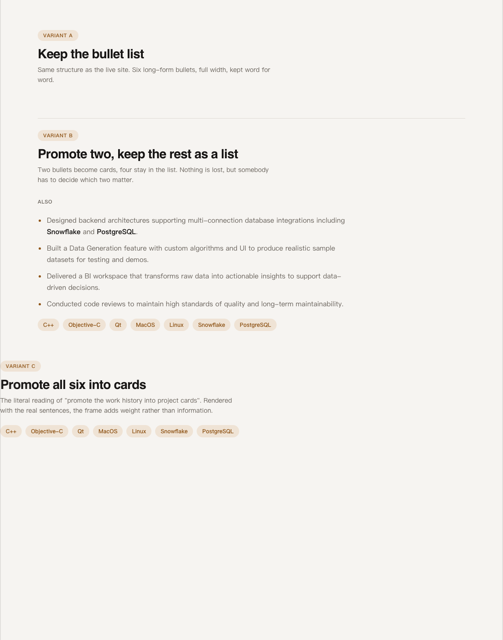
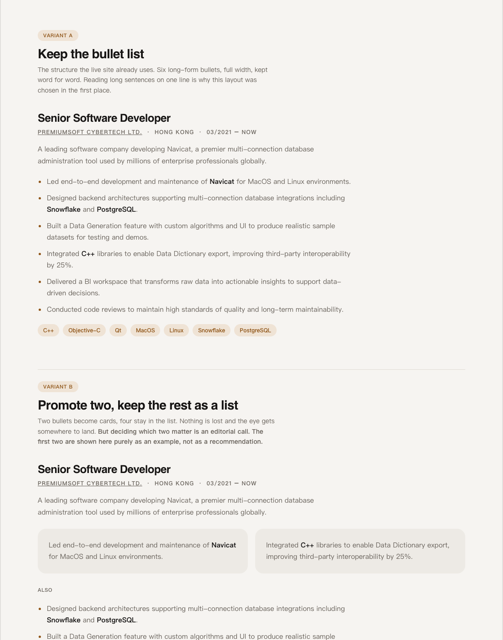
[Process] rebuild the published variants page without breaking its layout
The copy published at /process/experience-variants.html was translated with a
regular expression that matched greedily and swallowed the closing tags of the
demo blocks along with the Chinese headings. Variant A lost its content
entirely, and Variant C fell outside the page wrapper.

Rebuilt by replacing the text nodes one at a time and touching no structure.
Verified in the browser: three demo blocks, eight cards, no CJK characters
left. The thumbnail is regenerated from the corrected page.

diff --git a/public/process/experience-variants.html b/public/process/experience-variants.html
@@ -7,7 +7,7 @@
 <style>
   * { margin: 0; padding: 0; box-sizing: border-box; }
 
-  
+  /* */
   :root {
     --bg: #f6f4f1; --surface: #edeae5; --surface-raised: #faf9f7;
     --ink: #171514; --muted: #6a645d; --line: #e0dcd5;
@@ -26,7 +26,7 @@
 
   .wrap { max-width: 1000px; margin: 0 auto; padding: 0 32px; }
 
-  
+  /* */
   .variant-head { border-top: 1px solid var(--line); margin-top: 72px; padding-top: 24px; }
   .variant-head:first-of-type { margin-top: 40px; border-top: 0; }
   .variant-tag {
@@ -38,7 +38,7 @@
   .variant-note { font-size: 14px; line-height: 1.6; color: var(--muted); margin-top: 8px; max-width: 62ch; }
   .demo { margin-top: 36px; }
 
-  
+  /* */
   .job-title { font-family: 'Inter Tight', sans-serif; font-size: 24px; font-weight: 600; letter-spacing: -.025em; }
   .job-meta {
     margin-top: 8px; display: flex; align-items: center; gap: 10px; flex-wrap: wrap;
@@ -53,7 +53,7 @@
   }
   em.hl { font-style: normal; font-weight: 600; color: var(--ink); }
 
-  
+  /* */
   .bullets { margin-top: 20px; list-style: none; }
   .bullets li {
     position: relative; padding-left: 20px; margin-top: 10px;
@@ -64,7 +64,7 @@
     width: 5px; height: 5px; border-radius: 50%; background: var(--accent);
   }
 
-  
+  /* */
   .cards { margin-top: 24px; display: grid; gap: 16px; grid-template-columns: repeat(2, 1fr); }
   .card {
     background: var(--surface); border-radius: var(--radius-card); padding: 24px;
@@ -87,12 +87,56 @@
 <div class="wrap">
 
   
-  <div class="variant-head"><span class="variant-tag">Variant A</span><div class="variant-name">Keep the bullet list</div><p class="variant-note">Same structure as the live site. Six long-form bullets, full width, kept word for word.</p></div>
-  
+  <div class="variant-head">
+    <span class="variant-tag">Variant A</span>
+    <div class="variant-name">Keep the bullet list</div>
+    <p class="variant-note">
+      The structure the live site already uses. Six long-form bullets, full width, kept word
+      for word. Reading long sentences on one line is why this layout was chosen in the first place.
+    </p>
+  </div>
+
+  <div class="demo">
+    <div class="job-title display">Senior Software Developer</div>
+    <div class="job-meta">
+      <a href="#">PremiumSoft CyberTech Ltd.</a><span>·</span><span>Hong Kong</span><span>·</span><span>03/2021 – Now</span>
+    </div>
+    <p class="job-summary">A leading software company developing Navicat, a premier multi-connection database administration tool used by millions of enterprise professionals globally.</p>
+    <ul class="bullets">
+      <li>Led end-to-end development and maintenance of <em class="hl">Navicat</em> for MacOS and Linux environments.</li>
+      <li>Designed backend architectures supporting multi-connection database integrations including <em class="hl">Snowflake</em> and <em class="hl">PostgreSQL</em>.</li>
+      <li>Built a Data Generation feature with custom algorithms and UI to produce realistic sample datasets for testing and demos.</li>
+      <li>Integrated <em class="hl">C++</em> libraries to enable Data Dictionary export, improving third-party interoperability by 25%.</li>
+      <li>Delivered a BI workspace that transforms raw data into actionable insights to support data-driven decisions.</li>
+      <li>Conducted code reviews to maintain high standards of quality and long-term maintainability.</li>
+    </ul>
+    <div class="tags">
+      <span class="tag">C++</span><span class="tag">Objective-C</span><span class="tag">Qt</span><span class="tag">MacOS</span><span class="tag">Linux</span><span class="tag">Snowflake</span><span class="tag">PostgreSQL</span>
+    </div>
+  </div>
 
   
-  <div class="variant-head"><span class="variant-tag">Variant B</span><div class="variant-name">Promote two, keep the rest as a list</div><p class="variant-note">Two bullets become cards, four stay in the list. Nothing is lost, but somebody has to decide which two matter.</p></div>
-  
+  <div class="variant-head">
+    <span class="variant-tag">Variant B</span>
+    <div class="variant-name">Promote two, keep the rest as a list</div>
+    <p class="variant-note">
+      Two bullets become cards, four stay in the list. Nothing is lost and the eye gets somewhere
+      to land. <strong>But deciding which two matter is an editorial call. The first two are shown
+      here purely as an example, not as a recommendation.</strong>
+    </p>
+  </div>
+
+  <div class="demo">
+    <div class="job-title display">Senior Software Developer</div>
+    <div class="job-meta">
+      <a href="#">PremiumSoft CyberTech Ltd.</a><span>·</span><span>Hong Kong</span><span>·</span><span>03/2021 – Now</span>
+    </div>
+    <p class="job-summary">A leading software company developing Navicat, a premier multi-connection database administration tool used by millions of enterprise professionals globally.</p>
+
+    <div class="cards">
+      <div class="card"><p>Led end-to-end development and maintenance of <em class="hl">Navicat</em> for MacOS and Linux environments.</p></div>
+      <div class="card"><p>Integrated <em class="hl">C++</em> libraries to enable Data Dictionary export, improving third-party interoperability by 25%.</p></div>
+    </div>
 
     <div class="rest-label">Also</div>
     <ul class="bullets">
@@ -107,8 +151,31 @@
   </div>
 
   
-  <div class="variant-tag-wrap"><div class="variant-head"><span class="variant-tag">Variant C</span><div class="variant-name">Promote all six into cards</div><p class="variant-note">The literal reading of "promote the work history into project cards". Rendered with the real sentences, the frame adds weight rather than information.</p></div></div>
-  
+  <div class="variant-head">
+    <span class="variant-tag">Variant C</span>
+    <div class="variant-name">Promote all six into cards</div>
+    <p class="variant-note">
+      All six become cards &mdash; the literal reading of &ldquo;promote the work history into
+      project cards&rdquo;. Rendered, the problem shows: the card format is built for short
+      headlines, and this content is six long sentences.
+    </p>
+  </div>
+
+  <div class="demo">
+    <div class="job-title display">Senior Software Developer</div>
+    <div class="job-meta">
+      <a href="#">PremiumSoft CyberTech Ltd.</a><span>·</span><span>Hong Kong</span><span>·</span><span>03/2021 – Now</span>
+    </div>
+    <p class="job-summary">A leading software company developing Navicat, a premier multi-connection database administration tool used by millions of enterprise professionals globally.</p>
+
+    <div class="cards">
+      <div class="card"><p>Led end-to-end development and maintenance of <em class="hl">Navicat</em> for MacOS and Linux environments.</p></div>
+      <div class="card"><p>Designed backend architectures supporting multi-connection database integrations including <em class="hl">Snowflake</em> and <em class="hl">PostgreSQL</em>.</p></div>
+      <div class="card"><p>Built a Data Generation feature with custom algorithms and UI to produce realistic sample datasets for testing and demos.</p></div>
+      <div class="card"><p>Integrated <em class="hl">C++</em> libraries to enable Data Dictionary export, improving third-party interoperability by 25%.</p></div>
+      <div class="card"><p>Delivered a BI workspace that transforms raw data into actionable insights to support data-driven decisions.</p></div>
+      <div class="card"><p>Conducted code reviews to maintain high standards of quality and long-term maintainability.</p></div>
+    </div>
     <div class="tags">
       <span class="tag">C++</span><span class="tag">Objective-C</span><span class="tag">Qt</span><span class="tag">MacOS</span><span class="tag">Linux</span><span class="tag">Snowflake</span><span class="tag">PostgreSQL</span>
     </div>
